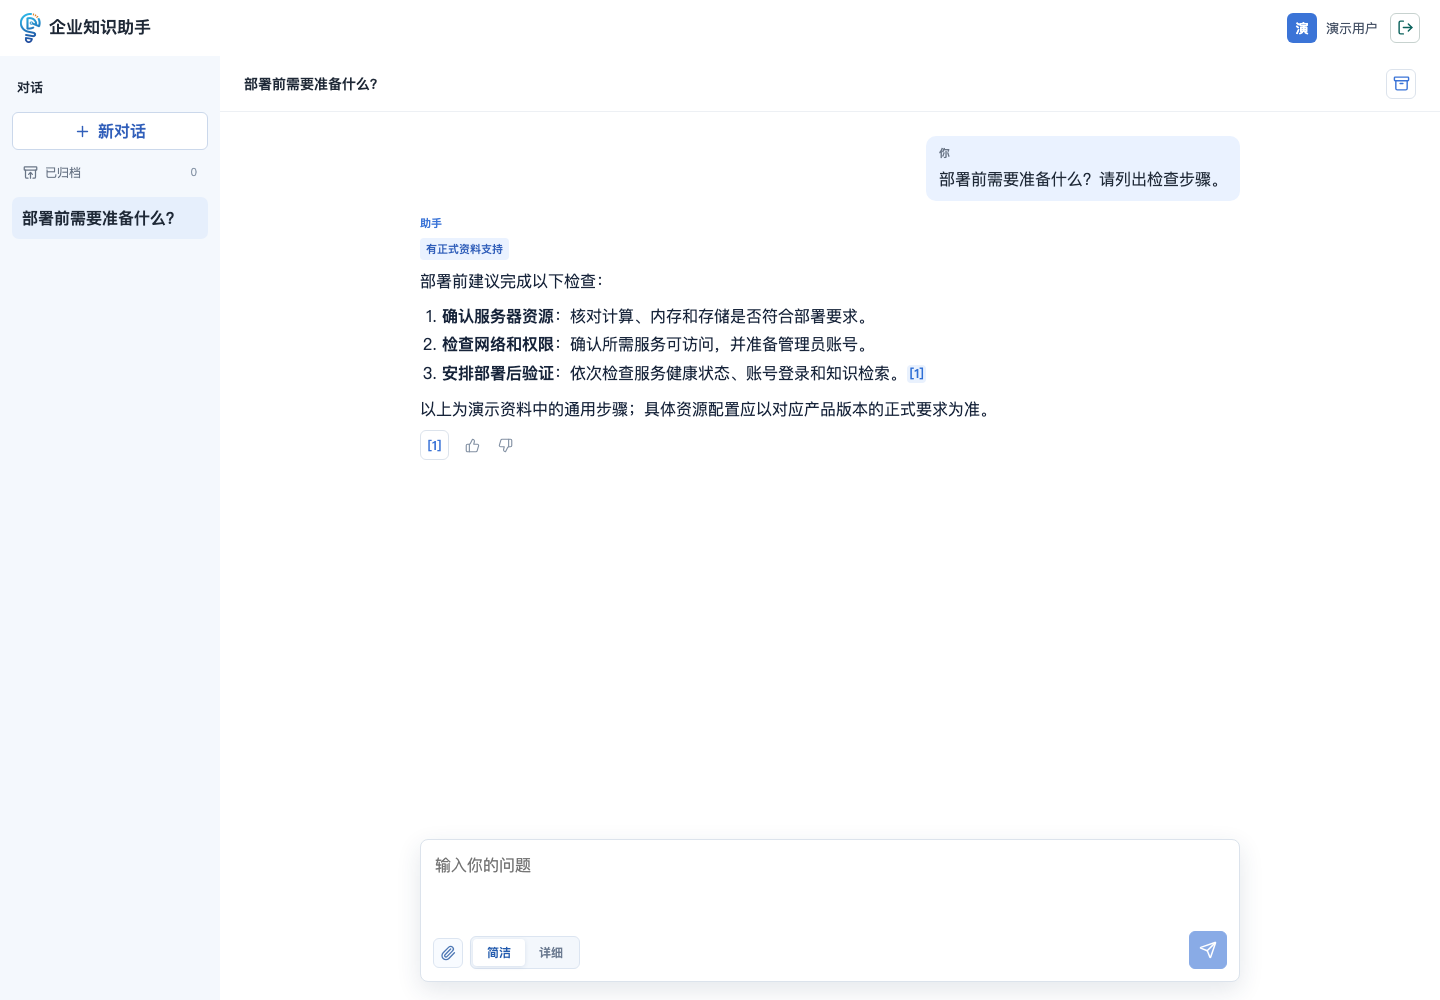
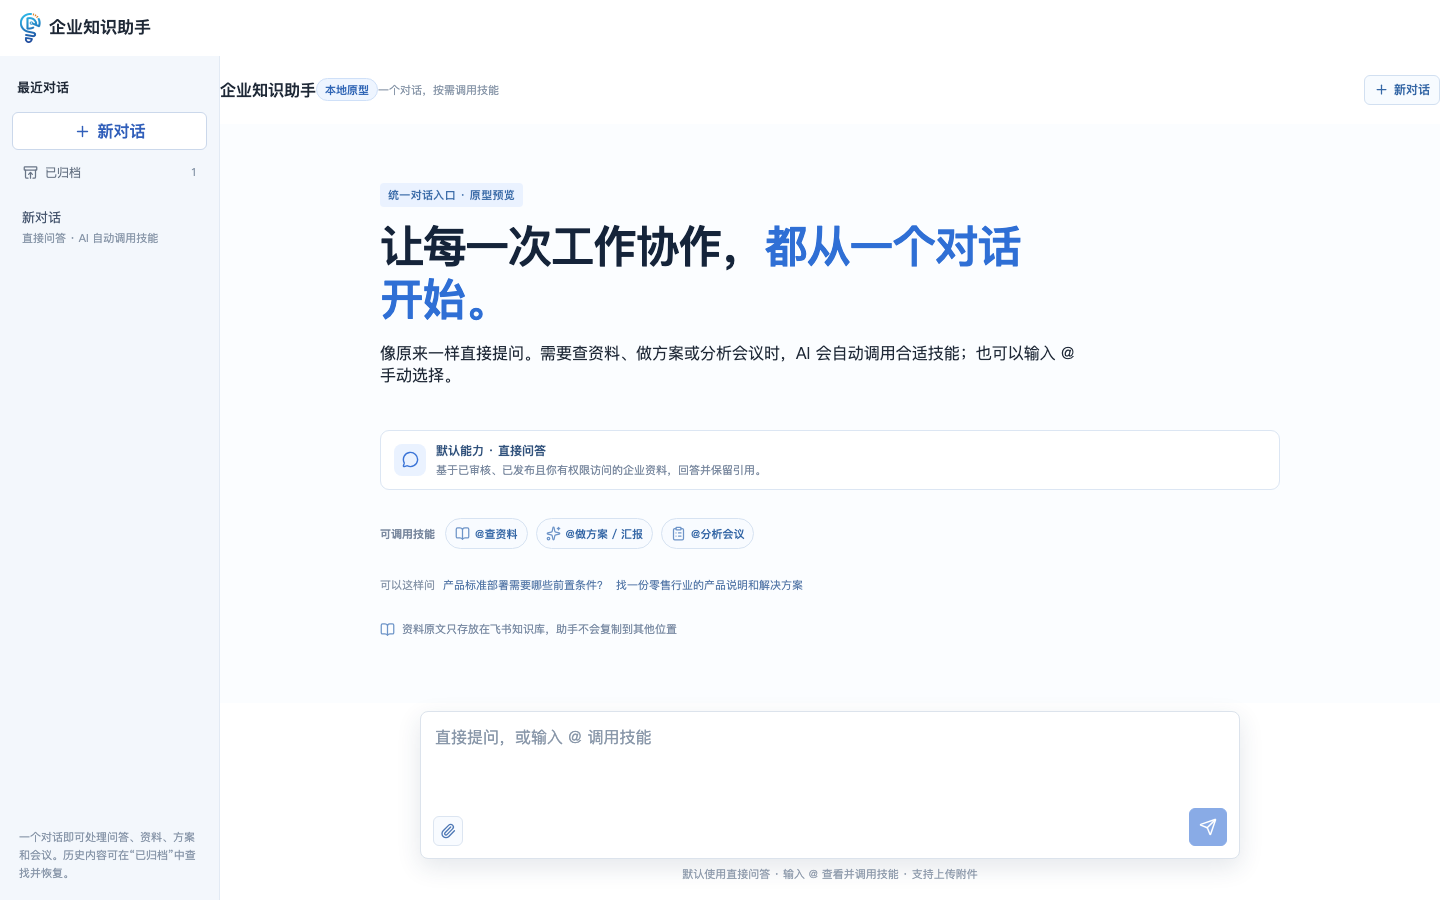
docs: 校准企业知识助手使用手册

diff --git a/docs/guide/knowledge-assistant.md b/docs/guide/knowledge-assistant.md
@@ -19,15 +19,15 @@
 1. 打开管理员提供的企业知识助手地址，确认进入的是“企业知识助手”登录页。
 2. 按页面启用的方式登录；使用飞书时，扫码并在手机完成确认。二维码过期后刷新。
 3. 登录成功后进入对话页。左侧管理会话，中间显示问答，下方是问题输入区。
-4. 输入一个具体问题，选择回答模式并发送。
+4. 输入一个具体问题并发送；需要指定技能时，在问题中输入 `@` 选择技能。
 
 **验收：** 页面显示你的登录身份，问题出现在当前会话，随后出现回答或明确的状态提示。
 
 若提示没有权限，联系管理员核对账号及知识库授权。登录成功不等于有权查看所有资料；多人使用同一台电脑时，使用结束后退出账号。
 
-## 3. 提问与回答模式
+## 3. 提问与技能调用
 
-[![企业知识助手对话界面，展示问题、回答、引用编号和输入区](/images/manuals/assistant-chat.png)](/images/manuals/assistant-chat.png)
+[![企业知识助手对话界面，展示问题、回答、引用编号、技能提示和输入区](/images/manuals/assistant-chat.png)](/images/manuals/assistant-chat.png)
 
 ### 3.1 怎样问更容易得到有用答案
 
@@ -39,16 +39,20 @@
 | 有什么区别？ | 请对比产品 A 与产品 B 在部署方式上的差异，并分别列出依据。 |
 | 这个能用吗？ | 这份方案适用于哪个产品版本？有哪些需要业务确认的条件？ |
 
-同一主题可在当前会话继续追问，例如“第二步需要哪个角色操作？”或“请按检查清单整理”。切换到无关主题时新建会话，避免上下文混淆。
+同一主题可在当前会话继续追问，例如“第二步需要哪个角色操作？”或“请按检查清单整理”。需要切换任务类型时，可输入 `@查资料` 或 `@做方案`；切换到无关主题时新建会话，避免上下文混淆。
 
-### 3.2 简洁模式与详细模式
+### 3.2 使用企业技能
 
-| 模式 | 适合场景 | 使用预期 |
+助手默认提供普通问答，并会根据问题内容自动选择合适的企业技能。需要明确指定技能时，在输入框中输入 `@`，从提示中选择：
+
+| 技能 | 用法 | 适合场景 |
 | --- | --- | --- |
-| 简洁模式 | 查参数、结论、简单步骤 | 快速直接回答 |
-| 详细模式 | 方案比较、适用条件、较复杂问题 | 多步查证后回答，可能耗时更长 |
+| `@查资料` | `@查资料 产品说明` | 查找产品说明、宣传手册、解决方案和正式资料 |
+| `@做方案` | `@做方案 设计项目实施方案` | 结合企业正式资料生成方案草稿和汇报提纲 |
 
-两种模式都受相同的知识权限约束；详细模式不会扩大可访问范围。回答过程中可能显示理解问题、检索资料、核对原文、整理回答等阶段，这些是工作阶段，并非精确的完成百分比。
+发送后，技能名称会作为问题的一部分保留在会话记录中，系统会按对应链路处理。也可以直接自然提问，由助手根据意图自动选择技能。技能不会扩大你的知识权限，只会使用当前账号有权访问的正式知识。
+
+回答过程中可能显示理解问题、检索资料、核对原文、整理回答等阶段，这些是工作阶段，并非精确的完成百分比。
 
 ### 3.3 如何理解回答状态
 

diff --git a/docs/develop-guides/changelog.md b/docs/develop-guides/changelog.md
@@ -17,6 +17,11 @@
 - 文档内图片按透明/纯色、细分隔线、重复页边小图、低色彩复杂度小图标过滤；保留带 OCR 文字、图注、客户标识集中展示页和不确定图片。规则使用 Docling 页面位置及图片内容，不按文件名误删。
 - 待审核素材可单条或批量重新加工，从归档原文件新建解析记录，完成后重新检查并保持待审核；拒绝覆盖已有人工审批或已发布片段。旧文件保留，失效的自动审核项和旧比较关系退出当前队列。
 
+## 2026-09-17 企业知识助手手册校准
+
+- 按当前企业知识助手界面更新手册，移除已下线的“简洁/详细”回答模式说明和截图。
+- 补充默认问答、`@查资料`、`@做方案` 技能的自动识别、手动调用方式与适用场景。
+
 本页用于记录各版本发布说明（新增、修复与破坏性变更）。
 
 同一版本的多次功能更新时，应以功能为单位进行更新，比如之前添加了 A 功能的更新，在后续的更新中修复了因 A 功能引入的 bug，那么这个修复说明应该和 A 功能描述放在一起，而不是新增一条修复记录，功能更新同理。

diff --git a/README.md b/README.md
@@ -25,7 +25,7 @@
 | 产品入口 | 面向角色 | 主要工作 |
 | --- | --- | --- |
 | 知识管理与审核平台 | 知识管理员、审核人员 | 资料接入、知识加工、版式核对、单元审核、整篇审核、正式发布 |
-| 企业知识助手 | 企业员工 | 检索已发布知识、查看引用证据、获取简洁或详细回答 |
+| 企业知识助手 | 企业员工 | 检索已发布知识、查看引用证据、调用企业技能并获取带来源的回答 |
 
 ## 知识模型
 

diff --git a/docs/index.md b/docs/index.md
@@ -27,7 +27,7 @@ features:
   - title: 正式知识发布
     details: 只将确认有效的内容发布为正式知识，保留来源、处理记录和版本关系。
   - title: 可信知识问答
-    details: 知识助手只使用已发布内容回答，并提供可核对的引用来源与简洁、详细两种模式。
+    details: 知识助手只使用已发布内容回答，并提供可核对的引用来源与企业技能调用。
 ---
 
 ## 在线访问

diff --git a/docs/intro/quick-start.md b/docs/intro/quick-start.md
@@ -41,7 +41,7 @@
 
 ## 6. 在知识助手中验证
 
-打开企业知识助手，使用刚发布内容中的明确关键词提问。核对回答是否引用正确来源，再分别测试简洁和详细回答模式。
+打开企业知识助手，使用刚发布内容中的明确关键词提问。核对回答是否引用正确来源；需要资料检索时测试 `@查资料`，需要形成方案时测试 `@做方案`。
 
 ## 日常操作建议
 

diff --git a/docs/intro/project-overview.md b/docs/intro/project-overview.md
@@ -18,7 +18,7 @@
 
 ### 可信知识问答
 
-知识助手检索已经发布的正式知识，提供简洁和详细两种回答模式，并展示可核对的引用来源。
+知识助手检索已经发布的正式知识，提供默认问答、`@查资料`、`@做方案` 等企业技能，并展示可核对的引用来源。
 
 ## 技术基础
 
